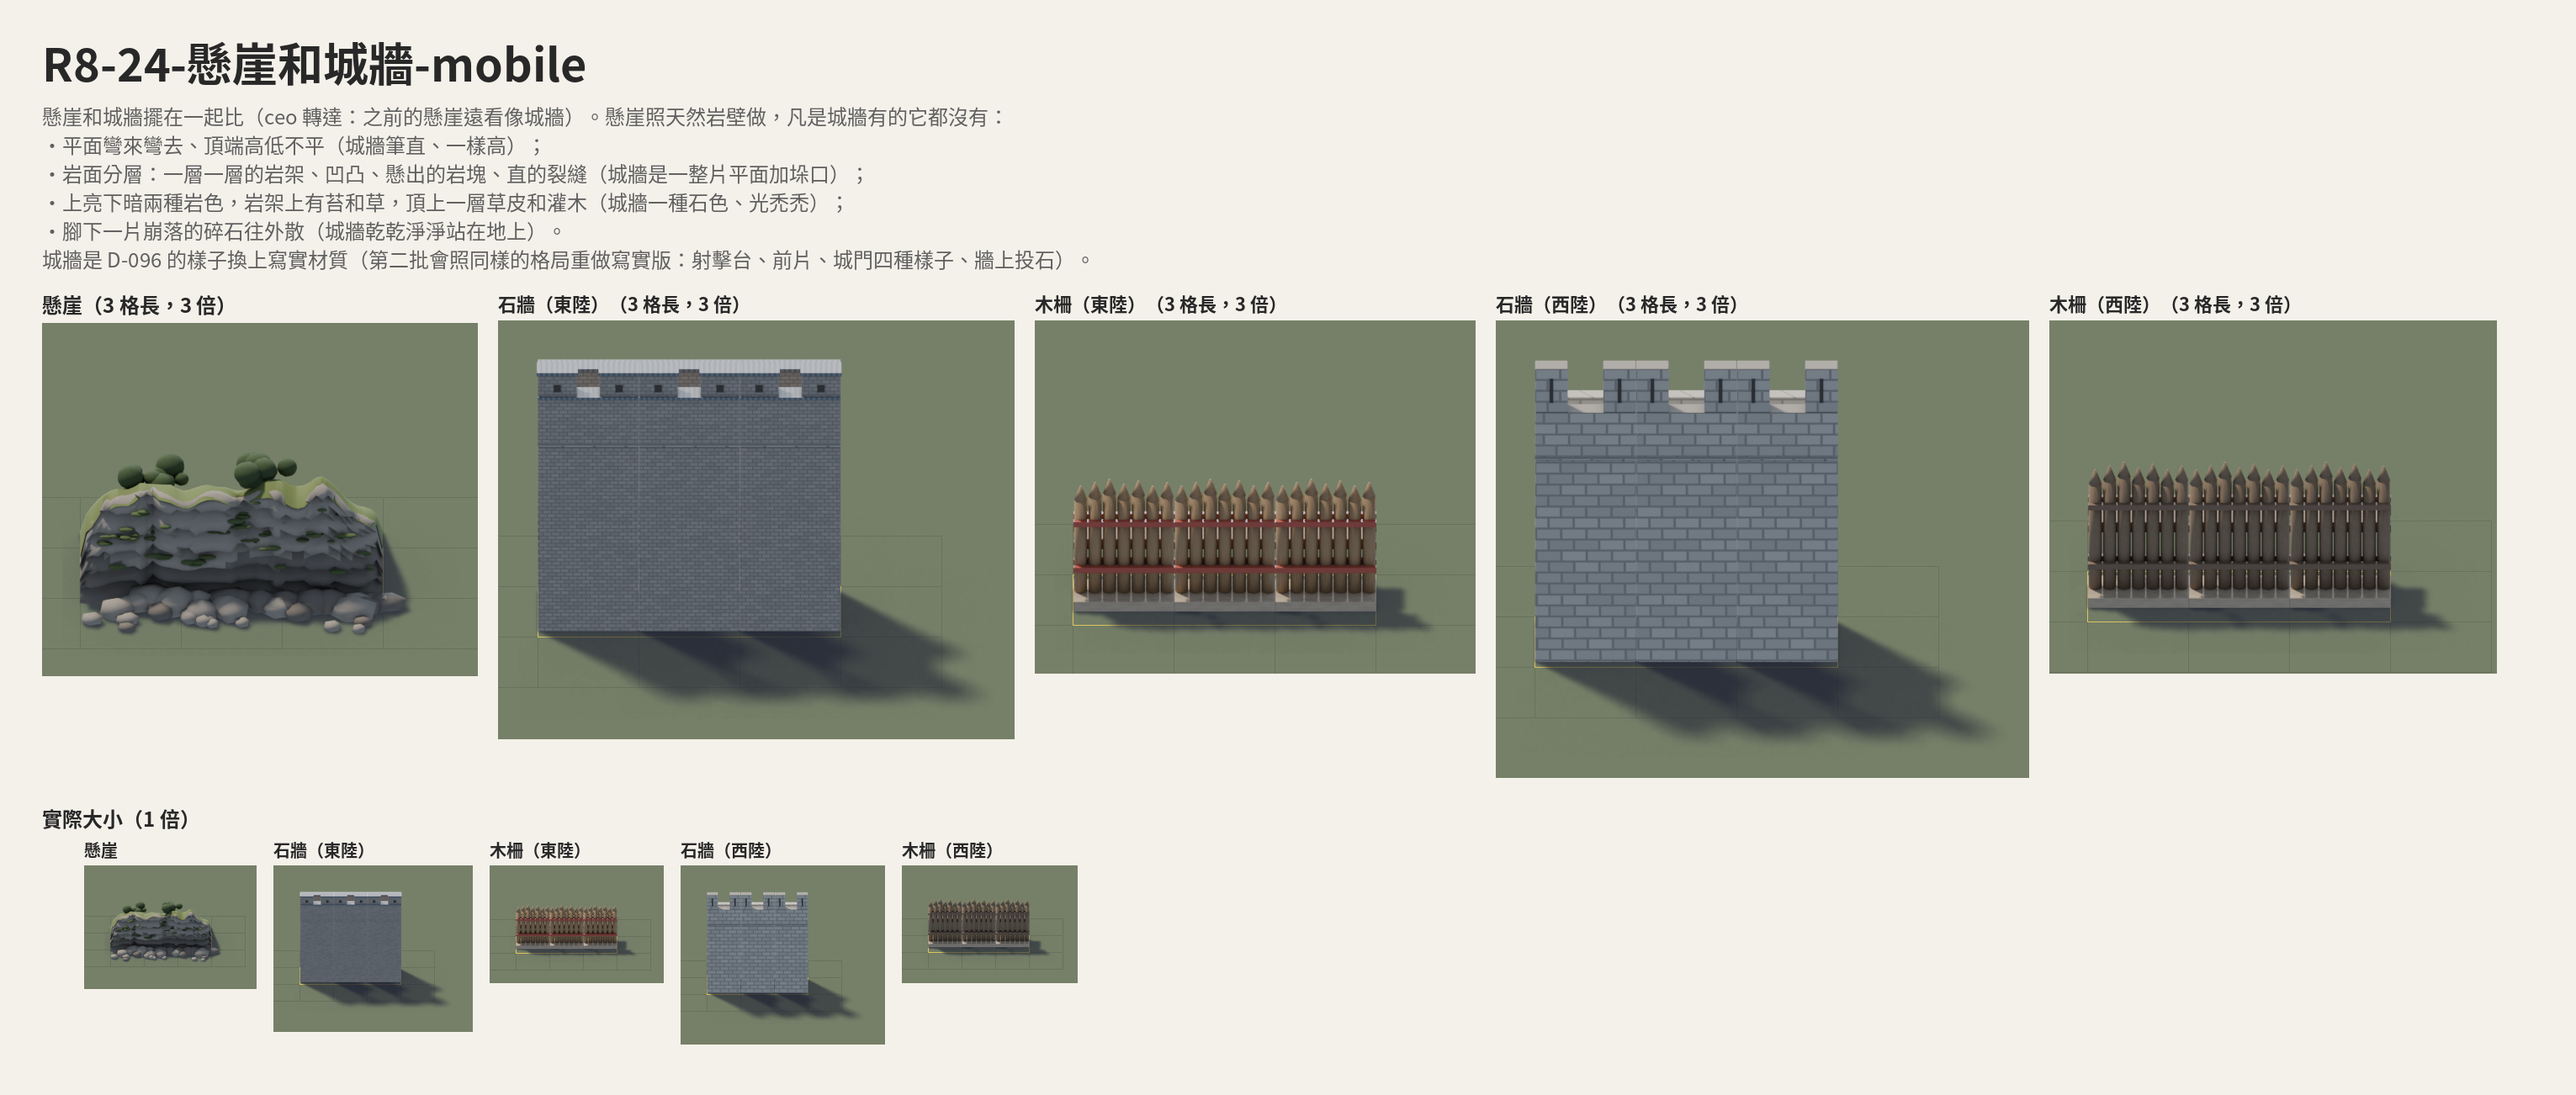
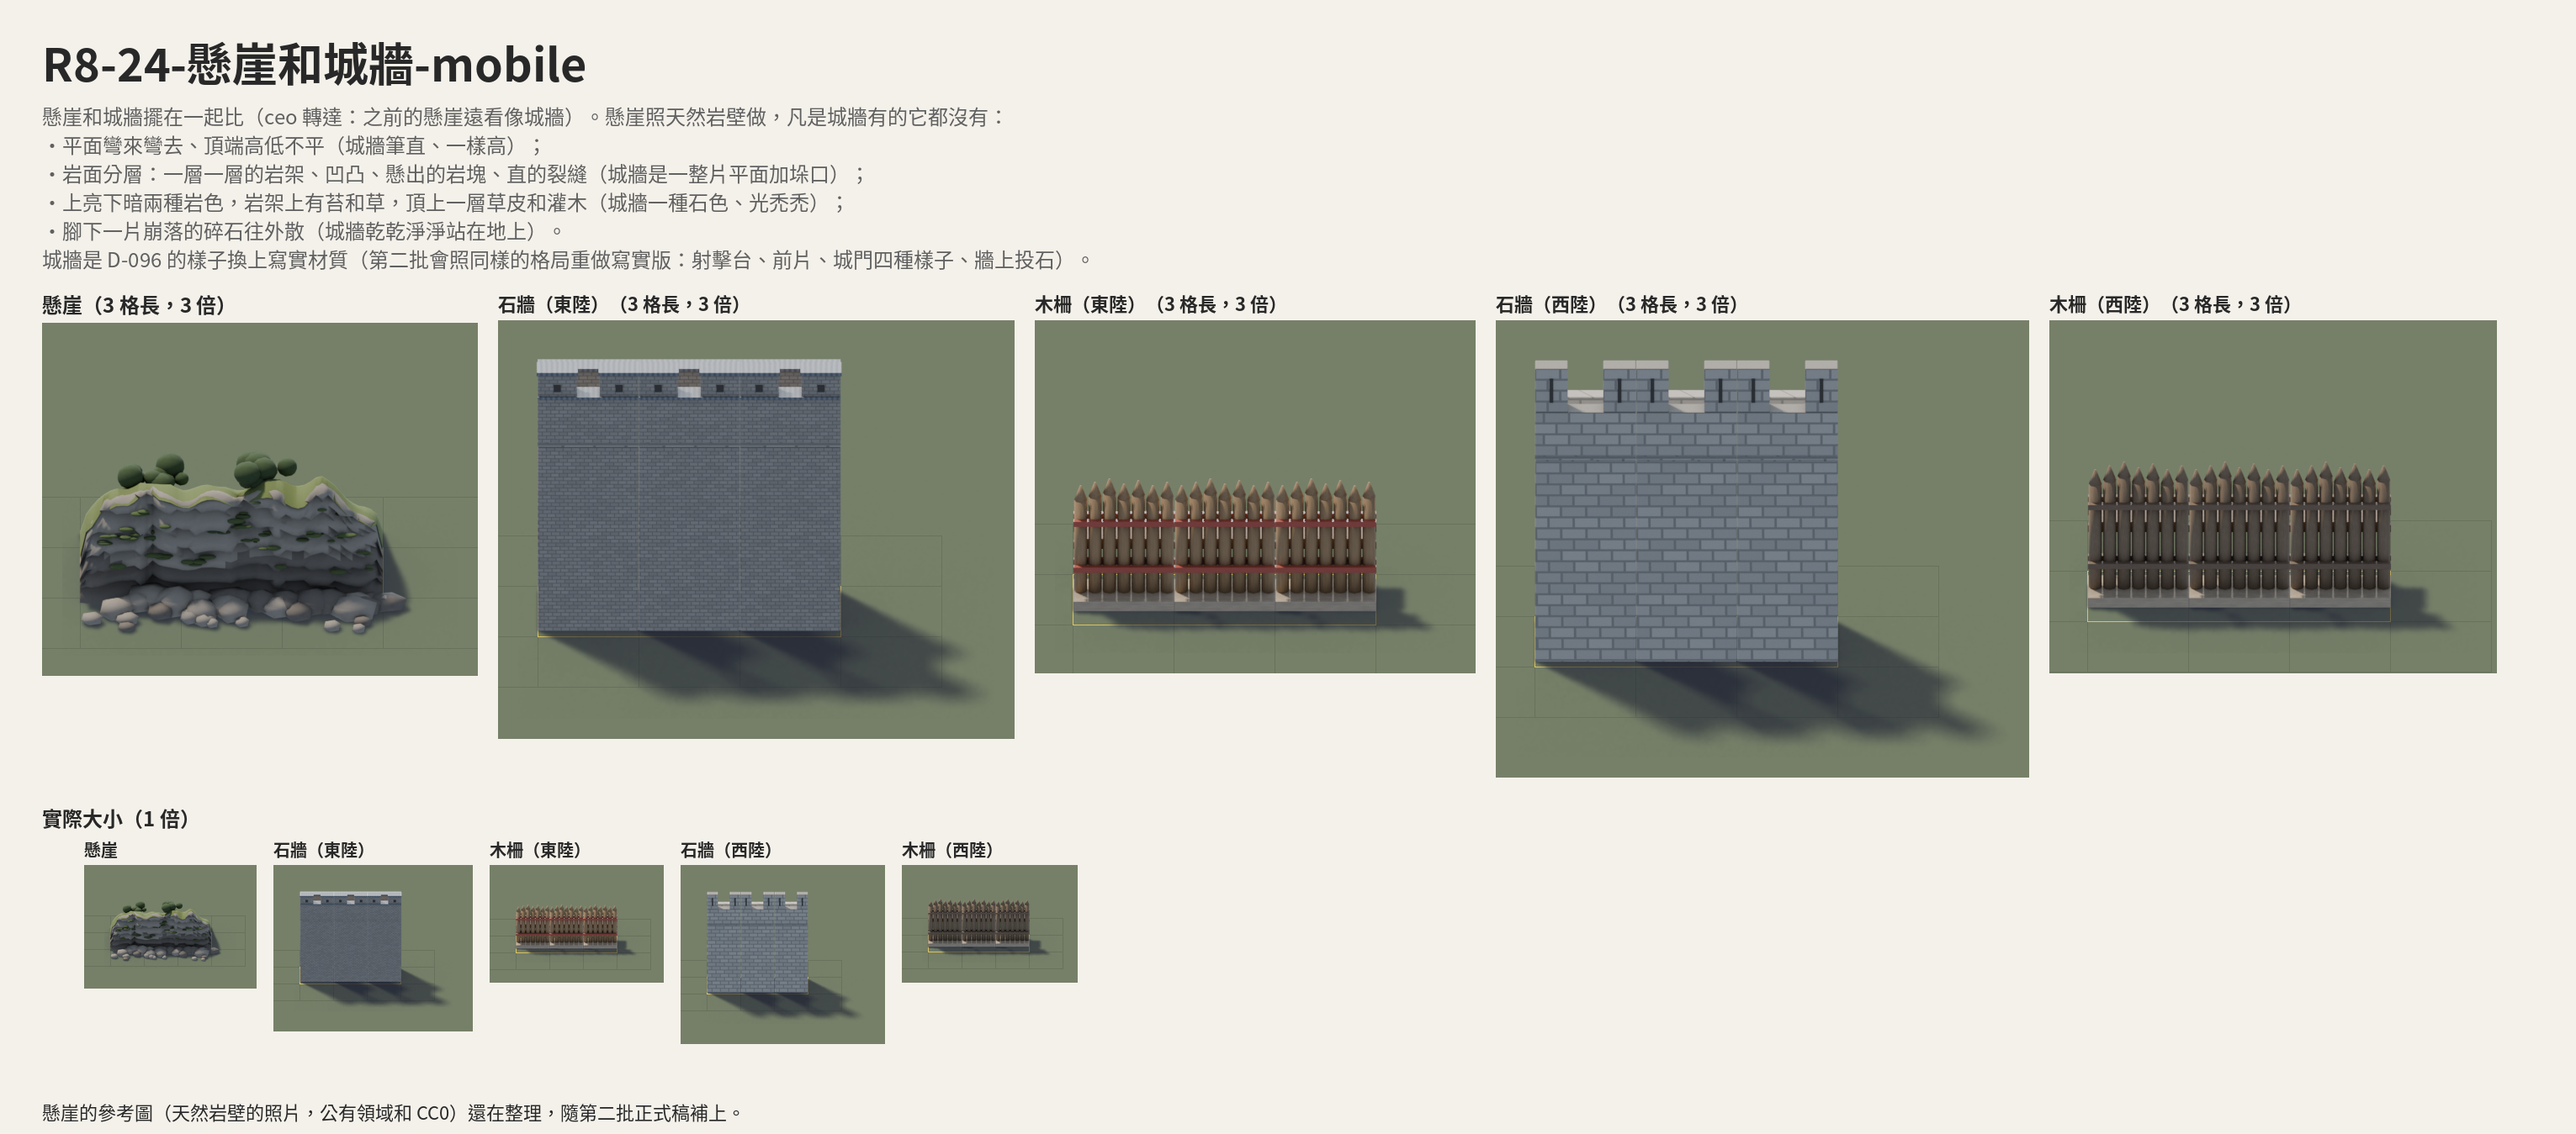
R8 第二批樣本：地面用要出貨的設定（grade 亮度 1.0、飽和度 0.9）並站上寫實兵，記憶體標明是每張一個狀態，懸崖參考圖待補的說明

diff --git a/design/r8/common/samples_r8.py b/design/r8/common/samples_r8.py
@@ -4,7 +4,7 @@ the main city, a house and the barracks in the realistic look (blender/arch_r8.p
 layers blended as the client blends them (ground_r8.py); the cliff beside the walls (terrain_r8.py); an overview; and a
 memory table per category (uncompressed RGBA8 and ASTC 4x4, at 2x).
 
-python3 design/r8/common/samples_r8.py SUFFIX GROUND_DIR RESEARCH_DIR
+python3 design/r8/common/samples_r8.py SUFFIX GROUND_DIR RESEARCH_DIR [UNITS_DIR]
   SUFFIX        x3 (run.py r8b_samples, r8b_compare) or prev (--preview --ppm 60)
   GROUND_DIR    ground_run.py's output (ground/, sample_top.png)
   RESEARCH_DIR  the research worktree (east-arch-reference, west-arch-reference, nature-reference, wall-reference)
@@ -29,6 +29,7 @@ import boards   # noqa: E402
 boards.OUT = HERE.parent / "out"
 proj.use_camera(proj.OBLIQUE)
 DIR = config.BUILD / "b1" / "r8b"
+UNITS_DIR = None   # the R8 unit atlases (CI artifacts r7-v8-<unit>), for units on the ground sample
 NAMES = {"main_city": "主城", "house": "民居", "barracks": "兵營"}
 FOOT = {"main_city": (4, 4), "house": (2, 2), "barracks": (3, 3)}
 SIDE = {"E": "東陸", "W": "西陸"}
@@ -168,15 +169,29 @@ def board_ground(gdir, research, W=2800):
         sw.append(boards.captioned(two, f"{L['id']}：一塊 {L['tile_m']} 公尺（接起來 2×2）", 20))
     top = Image.open(gdir / "sample_top.png")
     cam = Image.open(gdir / "sample_cam.png")
+    cam = cam.resize((cam.width * 3 // 2, cam.height * 3 // 2), Image.LANCZOS).convert("RGBA")
+    if UNITS_DIR:                                         # R8 units standing on it, at the same scale (36 px a metre)
+        import boards_r8 as B
+        f = 36 / 60
+        for i, (u, anim, k, team, x, y) in enumerate((("spear_e", "idle", 0, "blue", 9.0, 15.0), ("spear_e", "walk", 3, "blue", 10.4, 15.6),
+                                                       ("bow_e", "attack", 4, "blue", 11.6, 14.8), ("pike_w", "walk", 2, "red", 21.0, 16.5),
+                                                       ("bow_w", "idle", 0, "red", 22.4, 17.2), ("farmer_e", "idle", 0, "blue", 20.5, 22.4))):
+            a = B.field.Atlas(Path(UNITS_DIR) / u / "r7v8" / "prod" / u / "atlas_x3" / f"{u}.json")
+            body, (ax, ay), _ = B.frame(a, u, anim, 6 if team == "blue" else 2, k, team)
+            body = body.resize((max(1, int(body.width * f)), max(1, int(body.height * f))), Image.LANCZOS)
+            cam.alpha_composite(body, (int(x * 36 - ax * f), int(y * 18 - ay * f)))
+    cam = cam.convert("RGB")
     text = ("地面（R8 第二批）：五層可以無縫接的材質，已經打好光（和兵、建築同一個太陽），高度放在透明度裡；"
             "格式照 client 2026-10-21 談好的 war-game ground 1（ground.json）。混合照 client 的著色器："
             "草地到處都是，大片的乾草地用一個慢的雜訊混進去；資源點旁和零星的地方露土；岩石、懸崖腳下是碎石；水邊是河岸泥。"
             "交界用雜訊和高度打散，不是直線。\n"
             "左：五層各自（接起來 2×2 看接縫）；下：一段 40×40 公尺的樣本，上面是從正上方看，右邊是遊戲的鏡頭（方形斜看，前後壓成一半）。"
-            "水面是暫時的平塗，寫實的水在第二批的地形裡。地面比兵暗、飽和度比兵低，讓兵一眼找得到。")
+            "水面是暫時的平塗，寫實的水在第二批的地形裡。地面比兵暗、飽和度比兵低，讓兵一眼找得到（右圖站了幾名寫實兵）。\n"
+            "這張用的就是要出貨的設定：ground.json 的 grade 亮度 1.0、飽和度 0.9；零星露土的門檻 0.8（越高露土越少）。"
+            "五層的材質都是 Poly Haven 的 CC0 照片，重新上色、打光。")
     parts = [boards.header(W, label, text), boards.row(sw, W, gap=20)]
     parts.append(boards.row([boards.captioned(top.resize((top.width // 2 * 2 // 2, top.height // 2)), "從正上方看（每公尺 12 點）", 22),
-                             boards.captioned(cam.resize((cam.width * 3 // 2, cam.height * 3 // 2)), "遊戲的鏡頭（實際大小約 1.5 倍）", 22)], W, gap=30))
+                             boards.captioned(cam, "遊戲的鏡頭，上面站著寫實兵（實際大小約 1.8 倍）", 22)], W, gap=30))
     return boards.save(boards.stack(parts, W), label)
 
 
@@ -202,6 +217,8 @@ def board_cliff(suffix, research, W=2800):
     nature = research / "nature-reference"
     if REFS.get("nature"):
         parts += refs_row(W, nature, REFS["nature"])
+    else:
+        parts.append(text_block(W, "懸崖的參考圖（天然岩壁的照片，公有領域和 CC0）還在整理，隨第二批正式稿補上。", 22))
     return boards.save(boards.stack(parts, W), label)
 
 
@@ -210,7 +227,7 @@ def board_overview(suffix, gdir, mem, W=3000):
     text = ("R8 第二批的樣本（寫實畫風），給使用者先看方向：東陸、西陸的主城、民居、兵營，地面五層的混合，懸崖和城牆。"
             "都是 2 倍。細節和參考圖在 R8-21 到 R8-24。看過方向對了，再量產第二批全部：建築（含哨所、砲坊）的所有狀態、"
             "照 D-096 格局的寫實城牆、資源點、地形、地面。\n"
-            "記憶體（2 倍，這幾樣各自；未壓縮 RGBA8／ASTC 4×4）：" +
+            "記憶體（2 倍，每張圖、一個狀態；一棟建築有六個狀態；未壓縮 RGBA8／ASTC 4×4）：" +
             "、".join(f"{NAMES.get(k.rsplit('_', 1)[0], k)}{'' if k == 'ground' else SIDE[k[-1]]} {v['rgba8_mb']}／{v['astc_mb']} MB"
                      for k, v in mem.items() if k != "ground") +
             f"；地面五層合計 {mem['ground']['rgba8_mb']}／{mem['ground']['astc_mb']} MB。")
@@ -244,6 +261,7 @@ def memory(suffix, gdir):
 
 if __name__ == "__main__":
     sfx, gd, rs = sys.argv[1], Path(sys.argv[2]), Path(sys.argv[3])
+    UNITS_DIR = sys.argv[4] if len(sys.argv) > 4 else None
     for c in ("E", "W"):
         print(board_buildings(c, sfx, rs))
     print(board_ground(gd, rs))

diff --git a/design/r8/common/ground_r8.py b/design/r8/common/ground_r8.py
@@ -19,7 +19,7 @@ LAYERS = ("grass", "grass_dry", "dirt", "gravel", "bank")
 TERRAIN = {"plain": 0, "rock": 1, "water": 3, "cliff": 7}       # the sim's Terrain values the weights look at
 # the layers' tile sizes (m) and the rules, as client reads them (GroundJson)
 RULES = dict(bank_cells=1, gravel_cells=1, edge_m=1.2, height_k=0.9, dirt=dict(node_cells=1, noise_threshold=0.8))
-GRADE = dict(brightness=1.0, saturation=1.0)
+GRADE = dict(brightness=1.0, saturation=0.9)      # the ground a little greyer than the units (R8: 找得到兵)
 
 
 def value_noise(size, cells, seed):
